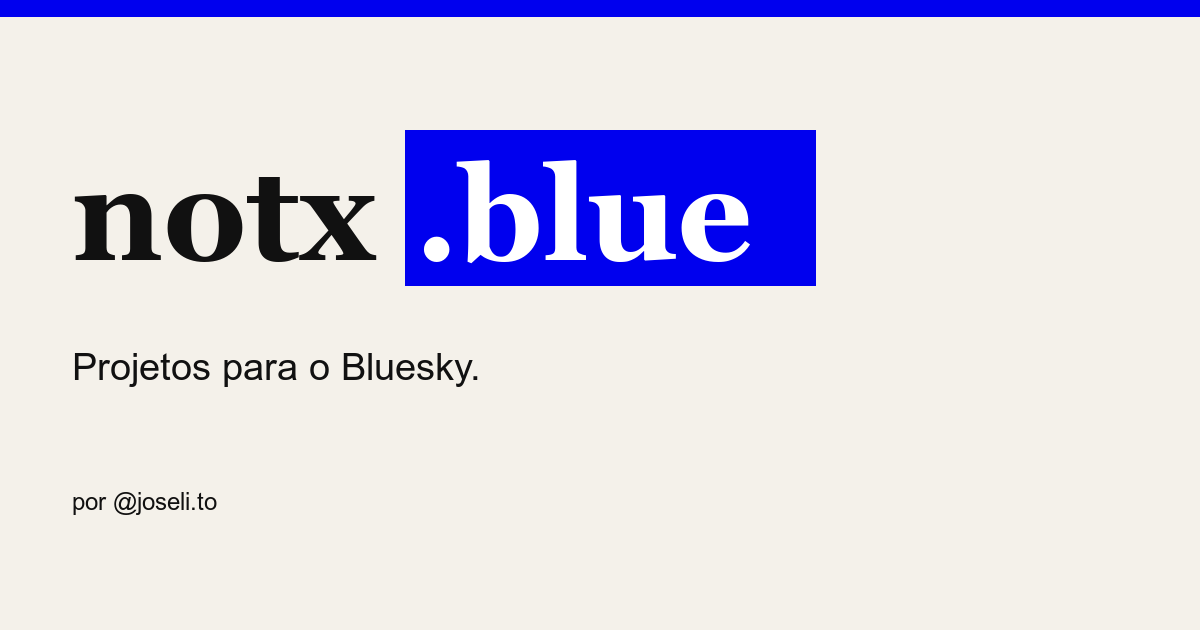
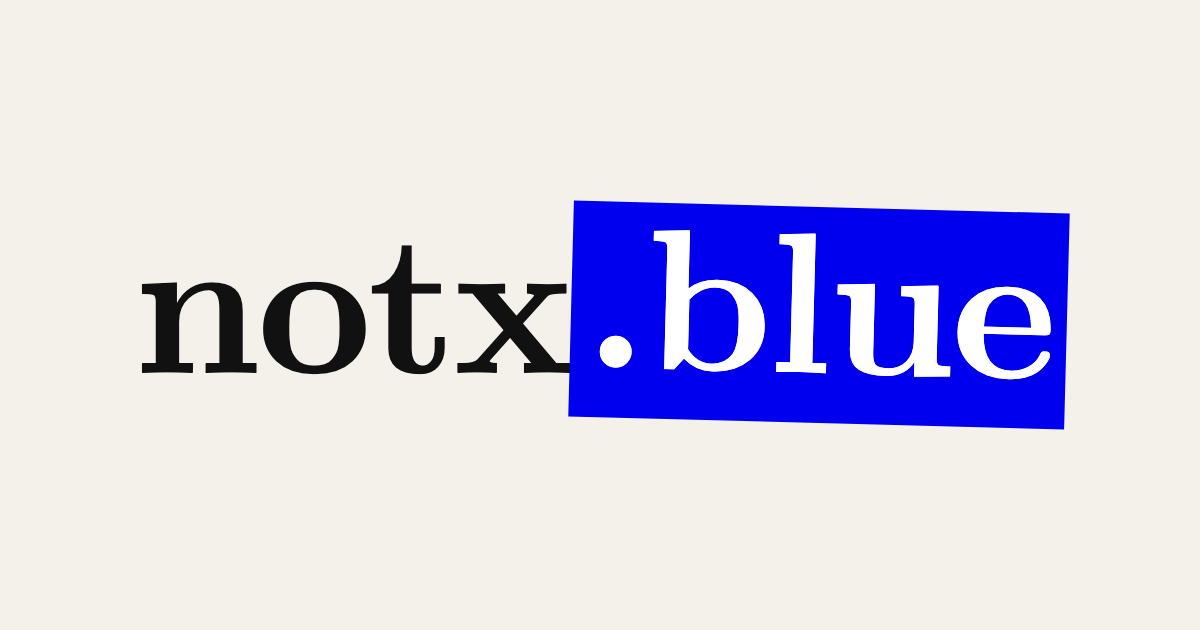
feat(brand): make the social image the wordmark alone

Changed region(s): [[0.0617, 0.181, 0.8942, 0.6937], [0.0, 0.0, 1.0, 0.0302], [0.0617, 0.7841, 0.185, 0.8143]]

diff --git a/scripts/og.html b/scripts/og.html
@@ -6,12 +6,10 @@
 <link rel="stylesheet" href="../assets/tailwind-4.3.3.css">
 <style>
 * { box-sizing: border-box; }
-body { width: 1200px; height: 630px; margin: 0; padding: 72px; background: var(--surface-page); color: var(--text-1); border-top: 16px solid var(--ink-blue); }
-h1 { font: 700 132px/1 var(--font-display); margin: 40px 0; letter-spacing: -5px; }
-span { display: inline-block; background: var(--ink-blue); color: var(--on-blue); padding: 0 12px 14px; transform: rotate(1.5deg); }
-p { font: 400 38px/1.3 var(--font-body); margin: 0 0 56px; }
-small { font: 400 24px/1 var(--font-mono); }
+body { width: 1200px; height: 630px; margin: 0; display: grid; place-items: center; background: var(--surface-page); color: var(--text-1); }
+h1 { font: 700 200px/1 var(--font-display); margin: 0; letter-spacing: -0.02em; }
+span { display: inline-block; background: var(--ink-blue); color: var(--on-blue); padding: 0.06em 0.07em 0.1em; line-height: 0.92; transform: rotate(1.5deg); }
 </style>
 </head>
-<body><h1>notx<span>.blue</span></h1><p>Projetos para o Bluesky.</p><small>por @joseli.to</small></body>
+<body><h1>notx<span>.blue</span></h1></body>
 </html>
